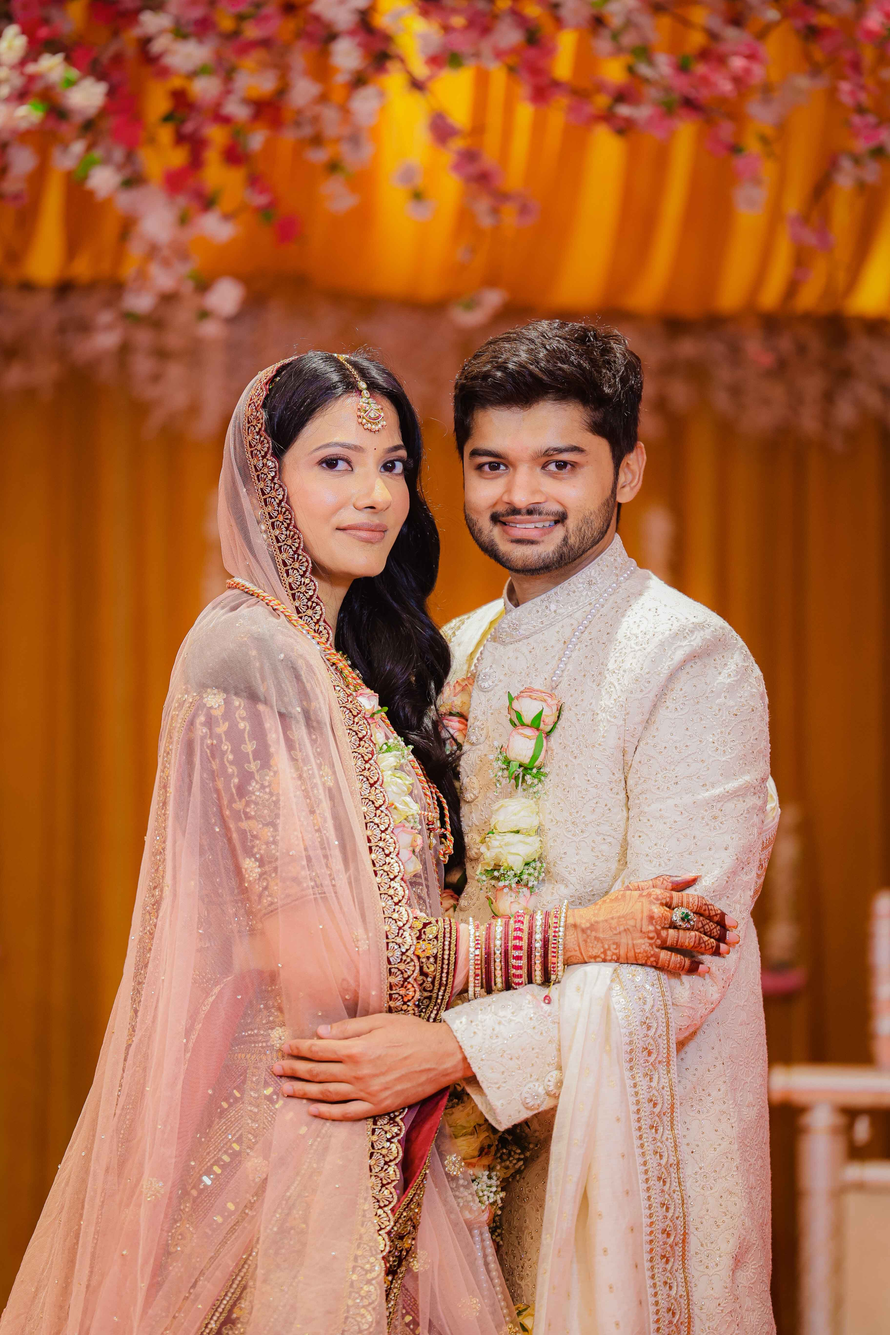
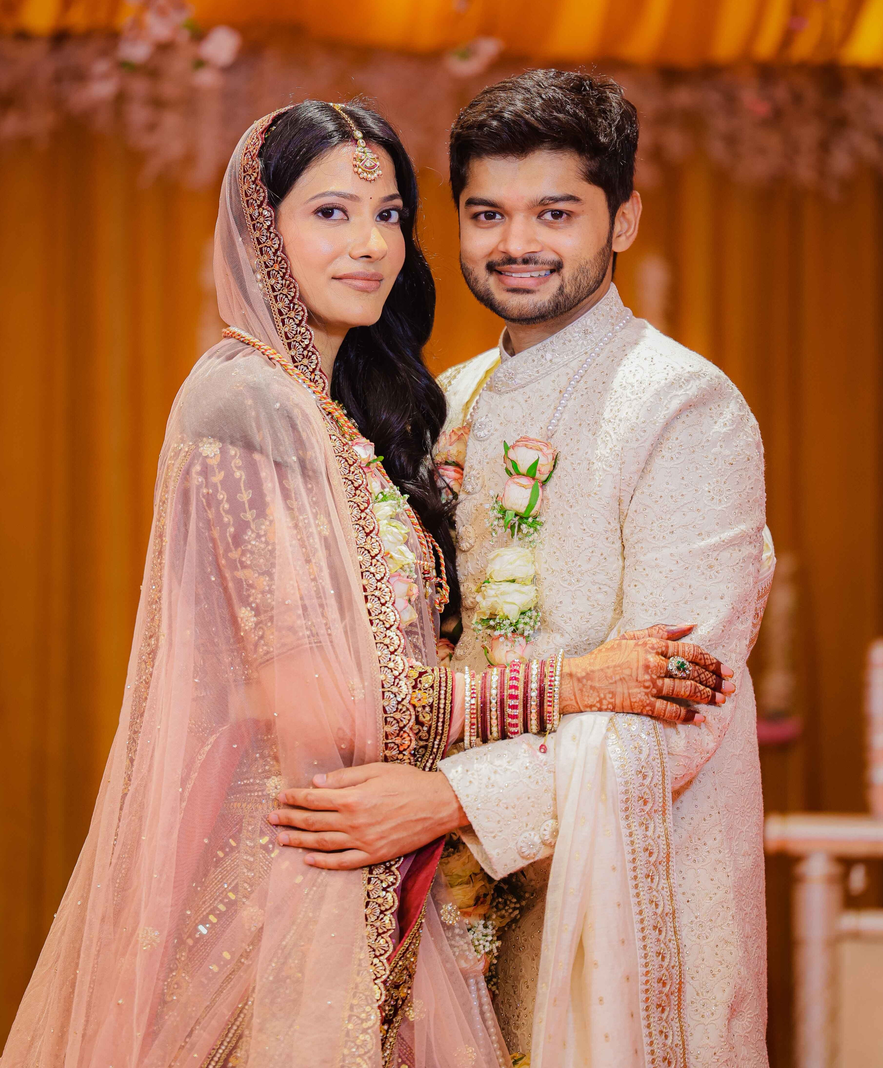
fix images

diff --git a/src/components/photography/ServicePageContent.tsx b/src/components/photography/ServicePageContent.tsx
@@ -130,7 +130,7 @@ export default function ServicePageContent({ service }: { service: Service }) {
                             alt={`${service.name} detail shot`}
                             data-ai-hint={service.images[1].imageHint}
                             fill
-                            className="object-cover object-center"
+                            className="object-cover object-top"
                         />
                     )}
                 </div>
@@ -187,7 +187,7 @@ export default function ServicePageContent({ service }: { service: Service }) {
                                       alt={item.text}
                                       data-ai-hint={item.image.imageHint}
                                       fill
-                                      className="object-cover object-center transition-transform duration-500 group-hover:scale-110"
+                                      className="object-cover object-top transition-transform duration-500 group-hover:scale-110"
                                   />
                               )}
                           </div>
@@ -234,7 +234,7 @@ export default function ServicePageContent({ service }: { service: Service }) {
                                         alt={step.title}
                                         data-ai-hint={image.imageHint}
                                         fill
-                                        className="object-cover object-center transition-transform duration-500 group-hover:scale-110"
+                                        className="object-cover object-top transition-transform duration-500 group-hover:scale-110"
                                     />
                                 )}
                                 <div className="absolute inset-0 bg-black/30" />

diff --git a/src/lib/photography-data.ts b/src/lib/photography-data.ts
@@ -103,7 +103,6 @@ export const photographyCategories: Category[] = [
             }
           ],
           whoIsItFor: [
-            { text: "Cinematic Video & Aerials", image: getImage('cinematic-video-aerials') },
             { text: "Cultural Ceremonies", image: getImage('cultural-ceremonies') },
             { text: "Destination Weddings", image: getImage('destination-weddings') },
             { text: "Engaged Couples", image: getImage('engaged-couples') },

diff --git a/src/components/photography/AnimatedGallery.tsx b/src/components/photography/AnimatedGallery.tsx
@@ -16,8 +16,8 @@ interface AnimatedGalleryProps {
 
 const aspectRatios = [
     'aspect-[3/4]', // portrait
-    'aspect-video', // landscape
-    'aspect-square',
+    'aspect-[3/4]', // portrait
+    'aspect-[3/4]', // portrait
 ];
 
 const INITIAL_LOAD = 6;
